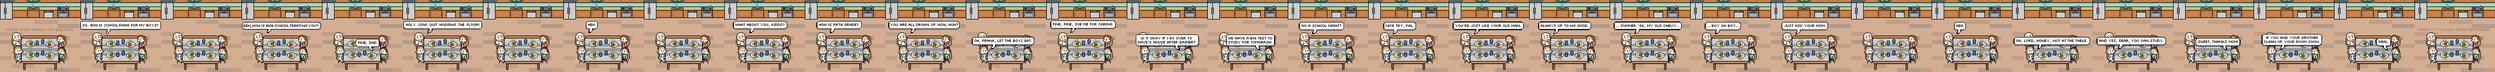
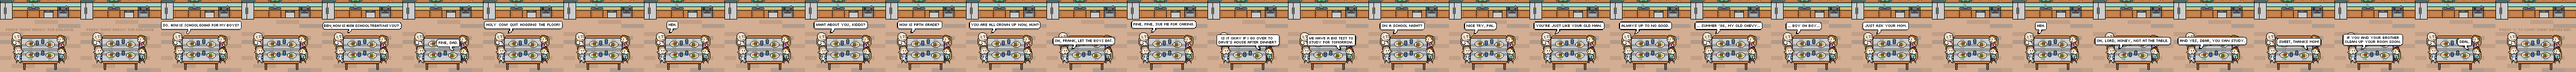
It runs!

diff --git a/Time5.js b/Time5.js
@@ -1,45 +1,5 @@
-// let time1, time2; time3; time4; time5;
-
-// function setup() {
-// 	new Canvas (160, 144, 'pixelated x4')
-// 	time1 = new Sprite(80, 72, 5, 5);
-// 	time2 = new Sprite(200, 300, 5, 5);
-// 	time3 = new Sprite(200, 400, 5, 5);
-// 	time4 = new Sprite(200, 500, 5, 5);
-// 	time5 = new Sprite(200, 600, 5, 5);
-	
-// }
-
-// function draw() {
-
-// 	clear();
-// 	if (millis() >= 1000) {
-// 	  time1.x = -100
-// 	  time2.x = 80
-// 	  time2.y = 72
-// 	}
-// 	if (millis() >= 2000) {
-// 	  time2.x = -200
-// 	  time3.x = 80
-// 	  time3.y = 72
-// 	}
-// 	if (millis() >= 3000) {
-// 	  time3.x = -300
-// 	  time4.x = 80
-// 	  time4.y = 72
-// 	}
-// 	if (millis() >= 4000) {
-// 	  time4.x = -400
-// 	  time5.x = 80
-// 	  time5.y = 72
-// 	}
-// 	if (millis() >= 6000) {
-// 		location.href = "index20.html"
-// 	}
-
-// }
-
 let time; 
+
 
 function setup() {
     new Canvas(160, 144, 'pixelated x4');
@@ -51,17 +11,9 @@ function draw() {
     clear();
     animation(time, 80, 72);
 	frameRate(16);
-    // time.stop();
+
     time.noLoop();
-    // if (kb.presses('ArrowRight')) {
-    //     dinner2.nextFrame();
-    // }
-    // if (kb.presses('a')) {
-    //     location.href = "index9.html";
-    // }
-    // if (kb.presses('b')) {
-    //     location.href = "index10.html";
-    // }
+
 	if (millis() >= 8600) {
 		location.href = "index20.html";
 	}

diff --git a/Day1Evening.js b/Day1Evening.js
@@ -1,33 +1,8 @@
-// let dinnerTable;
-
-// function preload() {
-//     sheetImg = loadImage("assets/Kitchen.png");
-// }
-
-// function setup() {
-//     new Canvas(160, 144, 'pixelated x4');
-//     frameRate(30);
-//     allSprites.pixelPerfect = true;
-
-//     dinnerTable = new Sprite(77, 100, 109, 75);
-//     dinnerTable.img = 'assets/DinnerTable.png';
-//     dinnerTable.collider = "static";
-
-// }
-
-// function draw() {
-//     background(sheetImg);
-
-//     if (millis() >= 5000) {
-//         location.href = "index3.html"
-//     }
-// }
-
 let dinner1;
 
 function setup() {
     new Canvas(160, 144, 'pixelated x4');
-    dinner1 = loadAnimation('assets/Day1Evening.png', { frameSize: [160, 144], frames: 31 });
+    dinner1 = loadAnimation('assets/Day1Evening.png', { frameSize: [160, 144], frames: 32 });
     
 }
 

diff --git a/index22.html b/index22.html
@@ -4,7 +4,7 @@
   <head>
     <meta charset="utf-8" />
     <meta name="viewport" content="width=device-width, initial-scale=1.0">
-    <title>p5 play template</title>
+    <title>spritesheet demo</title>
     <link rel="stylesheet" type="text/css" href="style.css">
     <script src="libraries/p5.min.js"></script>
     <!-- <script src="libraries/p5.sound.min.js"></script> -->
@@ -13,7 +13,7 @@
   </head>
 
   <body>
-    <script src="Menu.js"></script>
+    <script src="End.js"></script>
   </body>
 
 </html>

diff --git a/Day4Morning.js b/Day4Morning.js
@@ -11,7 +11,7 @@ function preload () {
 
 function setup() {
     new Canvas(160, 144, 'pixelated x4');
-    talk = loadAnimation('assets/Day4Morning.png', { frameSize: [160, 144], frames: 11});
+    talk = loadAnimation('assets/Day4Morning.png', { frameSize: [160, 144], frames: 12});
     
 }
 
@@ -23,7 +23,7 @@ function draw() {
     if (kb.presses('ArrowRight')) {
         talk.nextFrame();
     }
-    if (kb.presses('Enter')) {
+    if (kb.presses('g')) {
         location.href = "index22.html";
     }
 }

diff --git a/End.js b/End.js
@@ -1,0 +1,22 @@
+let end; 
+
+
+function setup() {
+    new Canvas(160, 144, 'pixelated x4');
+    end = loadAnimation('assets/End.png', { frameSize: [160, 144], frames: 4});
+    // time.animation.frameDelay = 5;
+}
+
+function draw() {
+    clear();
+    animation(end, 80, 72);
+	frameRate(1.3);
+    
+    end.noLoop();
+    
+
+
+	if (millis() >= 12000) {
+		location.href = "index.html";
+	}
+}

diff --git a/Menu.js b/Menu.js
@@ -1,0 +1,16 @@
+function preload() {
+    menu = loadImage("assets/Menu.png" );
+}
+
+function setup() {
+    new Canvas(160, 144, 'pixelated x4');
+}
+
+function draw() {
+    image(menu, 0, 0);
+
+    if (kb.presses('Enter')) {
+        location.href = "index1.html";
+    }
+}
+

diff --git a/index1.html b/index1.html
@@ -13,7 +13,7 @@
   </head>
 
   <body>
-    <script src="Menu.js"></script>
+    <script src="Day1Bedroom.js"></script>
   </body>
 
 </html>
